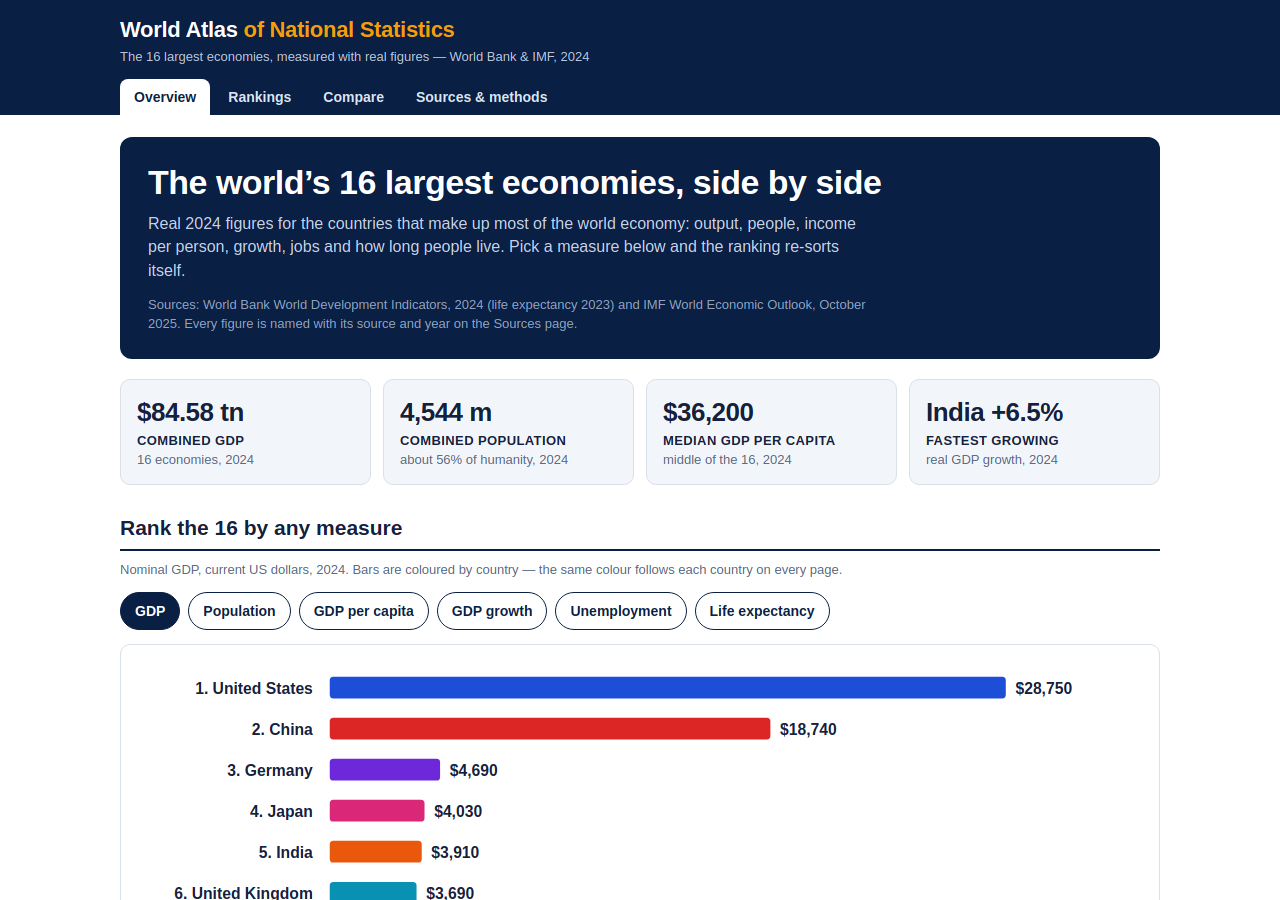
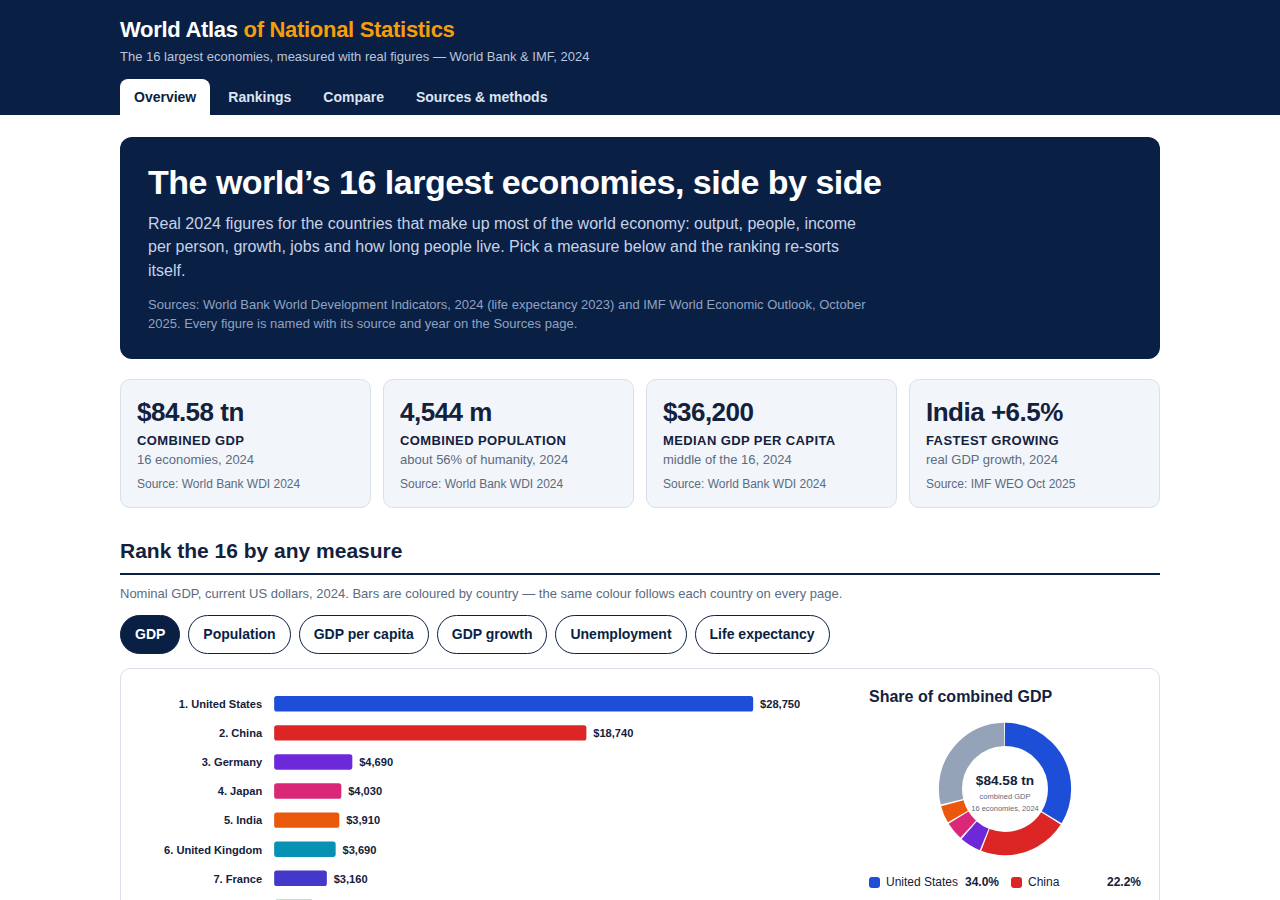
Home: add GDP-share donut beside ranked bars; cite source on every KPI
Second chart type on the cover (donut: top 5 economies + other 11,
shares computed from the verified 2024 GDP figures in data.js) and a
per-card source line under each KPI (World Bank WDI 2024; IMF WEO
Oct 2025 for growth). No data, pages, nav or visual identity changed.

diff --git a/app/charts.js b/app/charts.js
@@ -30,6 +30,37 @@ function rankedBars(metricKey) {
   return out + "</svg>";
 }
 
+// Donut chart: share of the combined GDP of all 16 economies, 2024.
+// The five largest economies get their own slice; the other 11 are grouped,
+// so the chart stays readable. Every slice is computed from the GDP figures
+// in data.js — no new data.
+function donutChart() {
+  const total = COUNTRIES.reduce((t, c) => t + c.gdp, 0);
+  const top = COUNTRIES.slice().sort((a, b) => b.gdp - a.gdp).slice(0, 5);
+  const other = total - top.reduce((t, c) => t + c.gdp, 0);
+  const slices = top.map((c) => ({ name: c.name, color: c.color, value: c.gdp }));
+  slices.push({ name: "Other 11 economies", color: "#94a3b8", value: other });
+  const R = 80, C = 2 * Math.PI * R, cx = 110, cy = 110;
+  let offset = 0, rings = "";
+  slices.forEach((s) => {
+    const len = (s.value / total) * C;
+    rings += '<circle cx="' + cx + '" cy="' + cy + '" r="' + R + '" fill="none" stroke="' +
+      s.color + '" stroke-width="34" stroke-dasharray="' + Math.max(0, len - 2).toFixed(1) +
+      " " + C.toFixed(1) + '" stroke-dashoffset="' + (-offset).toFixed(1) +
+      '" transform="rotate(-90 ' + cx + " " + cy + ')"/>';
+    offset += len;
+  });
+  const legend = slices.map((s) =>
+    '<li><span class="dot" style="background:' + s.color + '"></span>' + esc(s.name) +
+    "<b>" + (100 * s.value / total).toFixed(1) + "%</b></li>").join("");
+  return '<svg class="chart donut" viewBox="0 0 220 220" role="img" aria-label="Donut chart of each economy\'s share of combined GDP">' +
+    rings +
+    '<text x="' + cx + '" y="104" class="donut-total" text-anchor="middle">' + gdpTrillions(total) + "</text>" +
+    '<text x="' + cx + '" y="124" class="donut-sub" text-anchor="middle">combined GDP</text>' +
+    '<text x="' + cx + '" y="142" class="donut-sub" text-anchor="middle">16 economies, 2024</text></svg>' +
+    '<ul class="donut-legend">' + legend + "</ul>";
+}
+
 // Scatter plot: GDP per capita (x) against life expectancy (y). One dot per
 // country, coloured and labelled, so the pattern is readable without a legend.
 function scatterPlot() {

diff --git a/app/style.css b/app/style.css
@@ -63,6 +63,7 @@ footer {
 .kpi .num { font-size: 26px; font-weight: 800; letter-spacing: -0.5px; }
 .kpi .lbl { font-size: 13px; font-weight: 700; text-transform: uppercase; letter-spacing: 0.4px; }
 .kpi .sub { font-size: 13px; color: var(--muted); }
+.kpi .src { font-size: 12px; color: var(--muted); margin-top: 6px; }
 
 /* Metric switcher */
 .switcher { display: flex; flex-wrap: wrap; gap: 8px; margin: 6px 0 14px; }
@@ -85,6 +86,20 @@ footer {
 .dot-label { font-size: 12px; fill: var(--ink); font-weight: 700; }
 .panel { border: 1px solid var(--line); border-radius: 10px; padding: 16px 18px; margin-bottom: 18px; }
 .panel p:last-child { margin-bottom: 0; }
+
+/* Home: ranked bars beside the GDP-share donut, so the cover shows two
+   chart types at once. Stacks on narrow screens. */
+.charts-row { display: flex; gap: 20px; align-items: flex-start; }
+.bars-col { flex: 1; min-width: 0; }
+.donut-col { flex: 0 0 272px; }
+.donut-col h3 { margin-bottom: 6px; }
+.donut { max-width: 150px; margin: 0 auto; }
+.donut-total { font-size: 20px; font-weight: 800; fill: var(--ink); }
+.donut-sub { font-size: 11px; fill: var(--muted); }
+.donut-legend { list-style: none; margin: 8px 0 0; padding: 0; font-size: 12px; display: flex; flex-wrap: wrap; gap: 2px 12px; }
+.donut-legend li { display: flex; align-items: center; gap: 6px; padding: 2px 0; flex: 0 0 calc(50% - 6px); }
+.donut-legend .dot { display: inline-block; width: 11px; height: 11px; border-radius: 3px; flex: 0 0 11px; }
+.donut-legend b { margin-left: auto; font-weight: 700; white-space: nowrap; }
 
 /* Tables */
 table { width: 100%; border-collapse: collapse; font-size: 14px; }
@@ -143,6 +158,8 @@ code { background: var(--wash); padding: 1px 5px; border-radius: 4px; font-size:
 @media (max-width: 760px) {
   h1 { font-size: 26px; }
   .kpis { grid-template-columns: 1fr 1fr; }
+  .charts-row { flex-direction: column; }
+  .donut-col { flex-basis: auto; width: 100%; }
   .compare-grid, .findings { grid-template-columns: 1fr; }
   .pair-row { grid-template-columns: 110px 1fr 84px; }
   .hero { padding: 20px; }

diff --git a/app/main.js b/app/main.js
@@ -43,13 +43,13 @@ function renderOverview() {
   const metric = metricByKey(currentMetric);
 
   let kpis = '<div class="kpis">' +
-    kpi(gdpTrillions(totalGdp), "Combined GDP", "16 economies, 2024") +
+    kpi(gdpTrillions(totalGdp), "Combined GDP", "16 economies, 2024", "Source: World Bank WDI 2024") +
     kpi(totalPop.toLocaleString("en-US", { maximumFractionDigits: 0 }) + " m",
-      "Combined population", "about 56% of humanity, 2024") +
+      "Combined population", "about 56% of humanity, 2024", "Source: World Bank WDI 2024") +
     kpi("$" + medGdppc.toLocaleString("en-US"), "Median GDP per capita",
-      "middle of the 16, 2024") +
+      "middle of the 16, 2024", "Source: World Bank WDI 2024") +
     kpi(fastest.name + " +" + fastest.growth.toFixed(1) + "%", "Fastest growing",
-      "real GDP growth, 2024") +
+      "real GDP growth, 2024", "Source: IMF WEO Oct 2025") +
     "</div>";
 
   let top5rows = top5.map((c, i) =>
@@ -74,7 +74,8 @@ function renderOverview() {
       '<button data-metric="' + m.key + '"' + (m.key === currentMetric ? ' class="on"' : "") +
       ">" + m.label + "</button>").join("") +
     "</div>" +
-    '<div class="panel">' + rankedBars(currentMetric) + "</div>" +
+    '<div class="panel charts-row"><div class="bars-col">' + rankedBars(currentMetric) + "</div>" +
+    '<div class="donut-col"><h3>Share of combined GDP</h3>' + donutChart() + "</div></div>" +
     "<h2>The five biggest economies at a glance</h2>" +
     '<div class="table-wrap"><table><thead><tr><th>Country</th><th>GDP</th>' +
     "<th>Population</th><th>GDP per capita</th></tr></thead><tbody>" + top5rows +
@@ -100,9 +101,9 @@ function renderOverview() {
   });
 }
 
-function kpi(num, lbl, sub) {
+function kpi(num, lbl, sub, src) {
   return '<div class="kpi"><div class="num">' + num + '</div><div class="lbl">' + lbl +
-    '</div><div class="sub">' + sub + "</div></div>";
+    '</div><div class="sub">' + sub + '</div><div class="src">' + src + "</div></div>";
 }
 
 function finding(title, text) {

diff --git a/README.md b/README.md
@@ -12,9 +12,9 @@ The world's 16 largest economies, measured with real figures — an entry for th
 A static, fully offline site (plain files under `app/`, no build step, no network
 requests) covering the 16 largest economies by nominal GDP in 2024:
 
-- **Overview** — hero, four global KPIs, and ranked horizontal bars you can
-  re-sort by any of six measures (GDP, population, GDP per capita, GDP growth,
-  unemployment, life expectancy).
+- **Overview** — hero, four global KPIs (each with its source), ranked
+  horizontal bars you can re-sort by any of six measures, and a donut of
+  each economy's share of combined GDP.
 - **Rankings** — a sortable 16 × 6 table plus a scatter plot of GDP per capita
   against life expectancy.
 - **Compare** — any two countries head to head, with full profiles and paired
